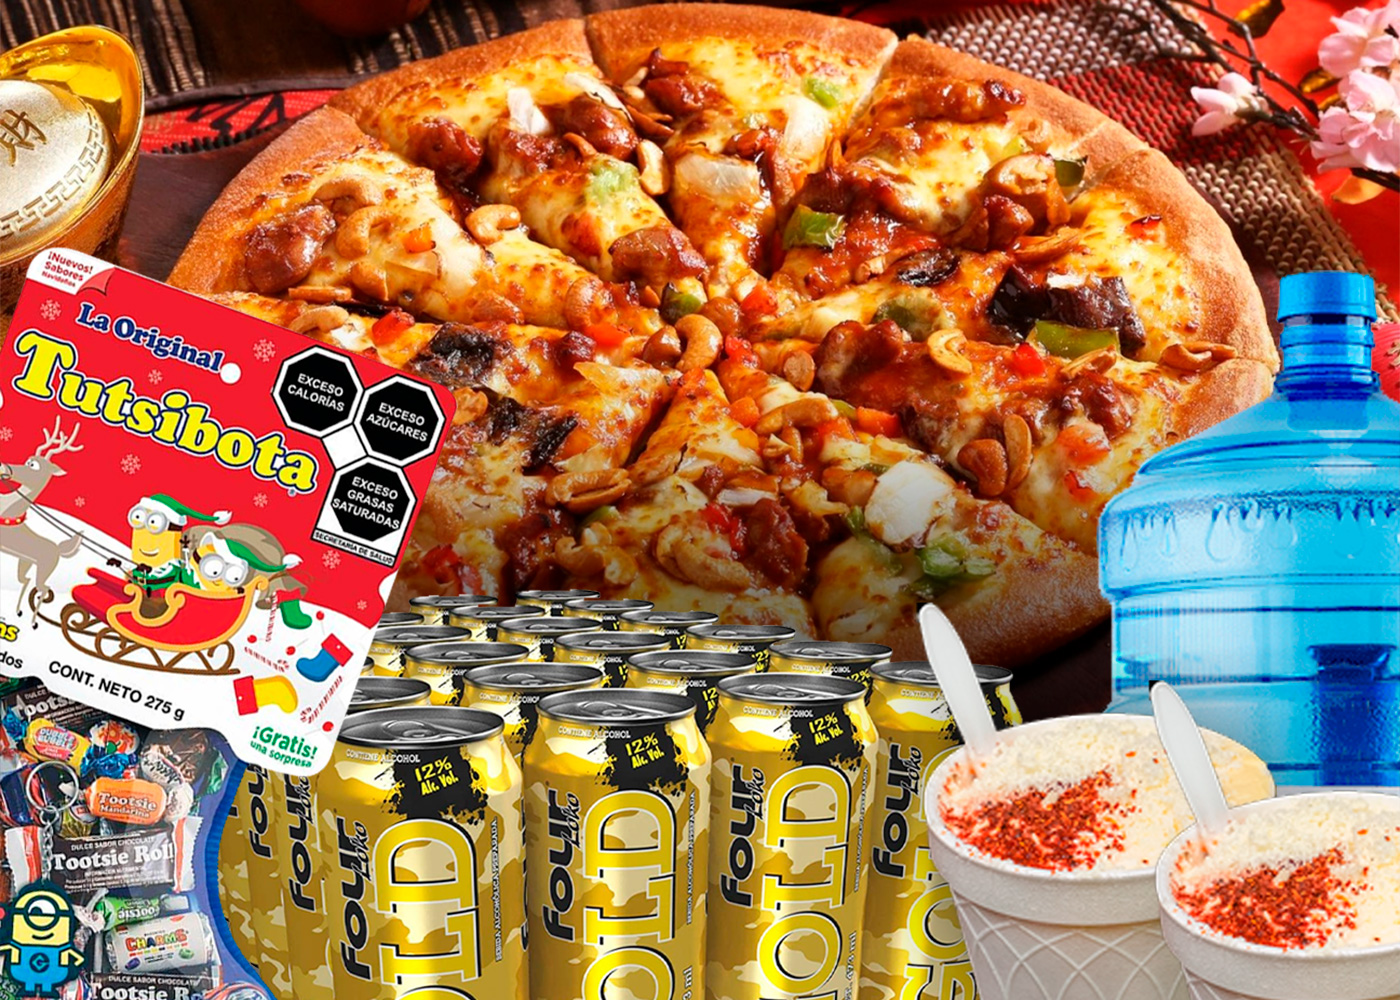
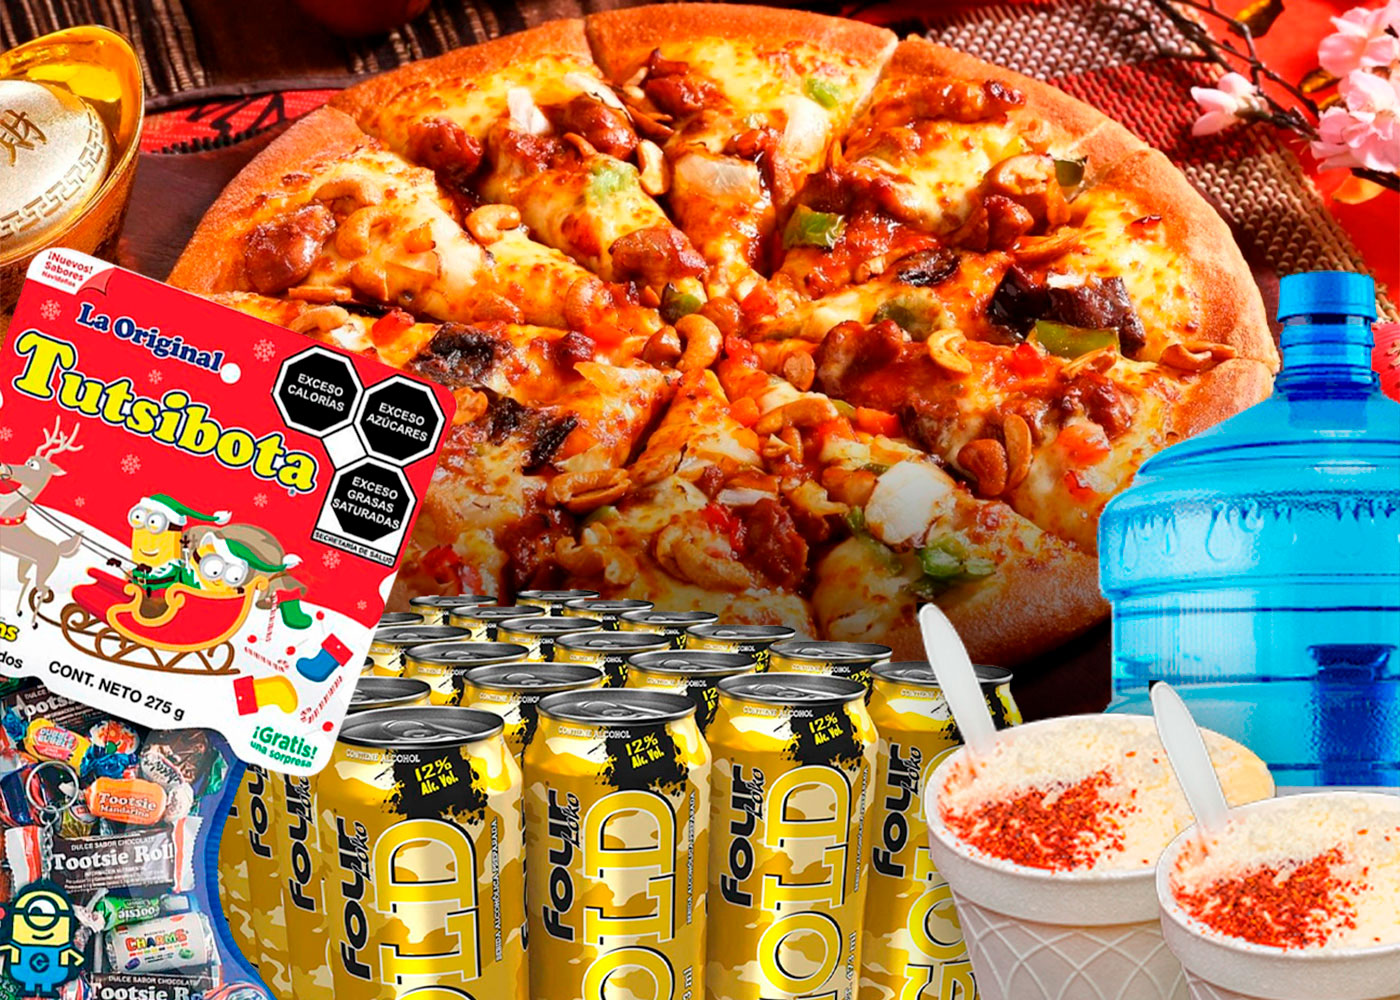
Imagenes optimizadas

diff --git a/public/css/login.css b/public/css/login.css
@@ -35,7 +35,7 @@ body {
   margin:0;
   padding:0;
   font-family: sans-serif;
-  background-image: url("../img/Login\ wallpaper.jpg");
+  background-image: url("../img/Login-wallpaper.jpg");
   background-attachment: fixed;
   background-position: center;
   background-repeat: no-repeat;
